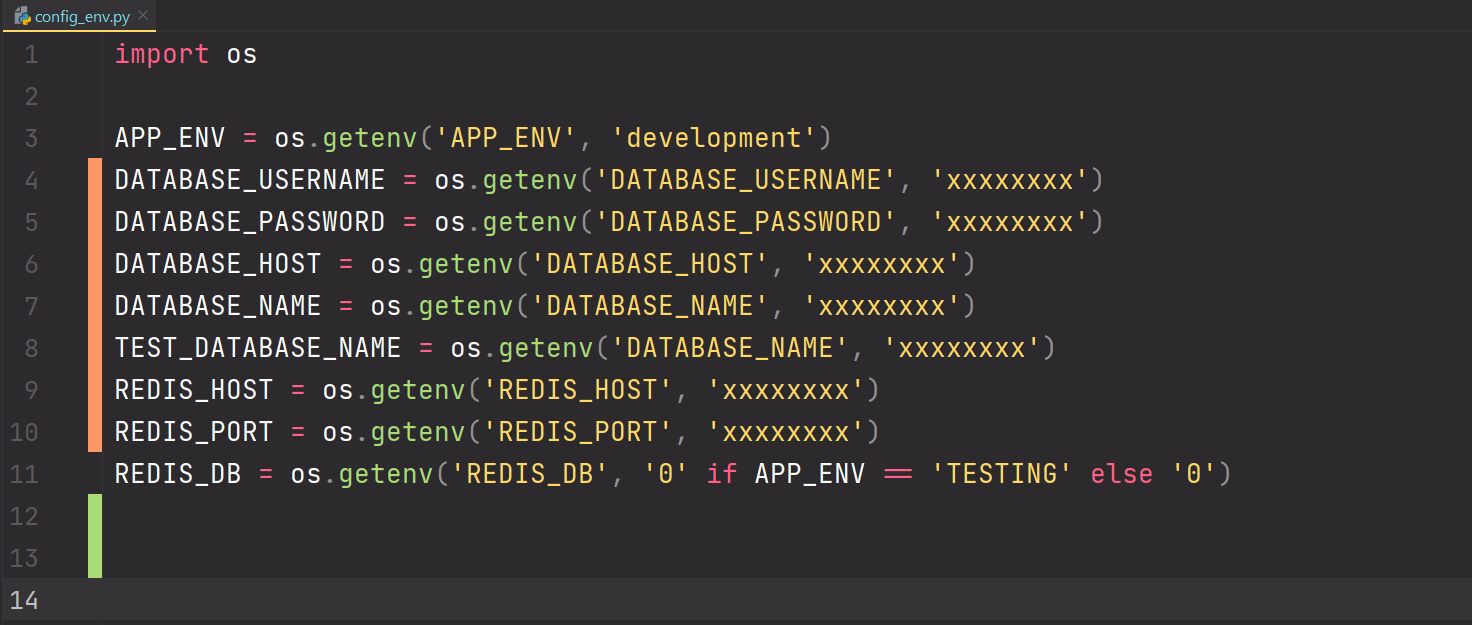
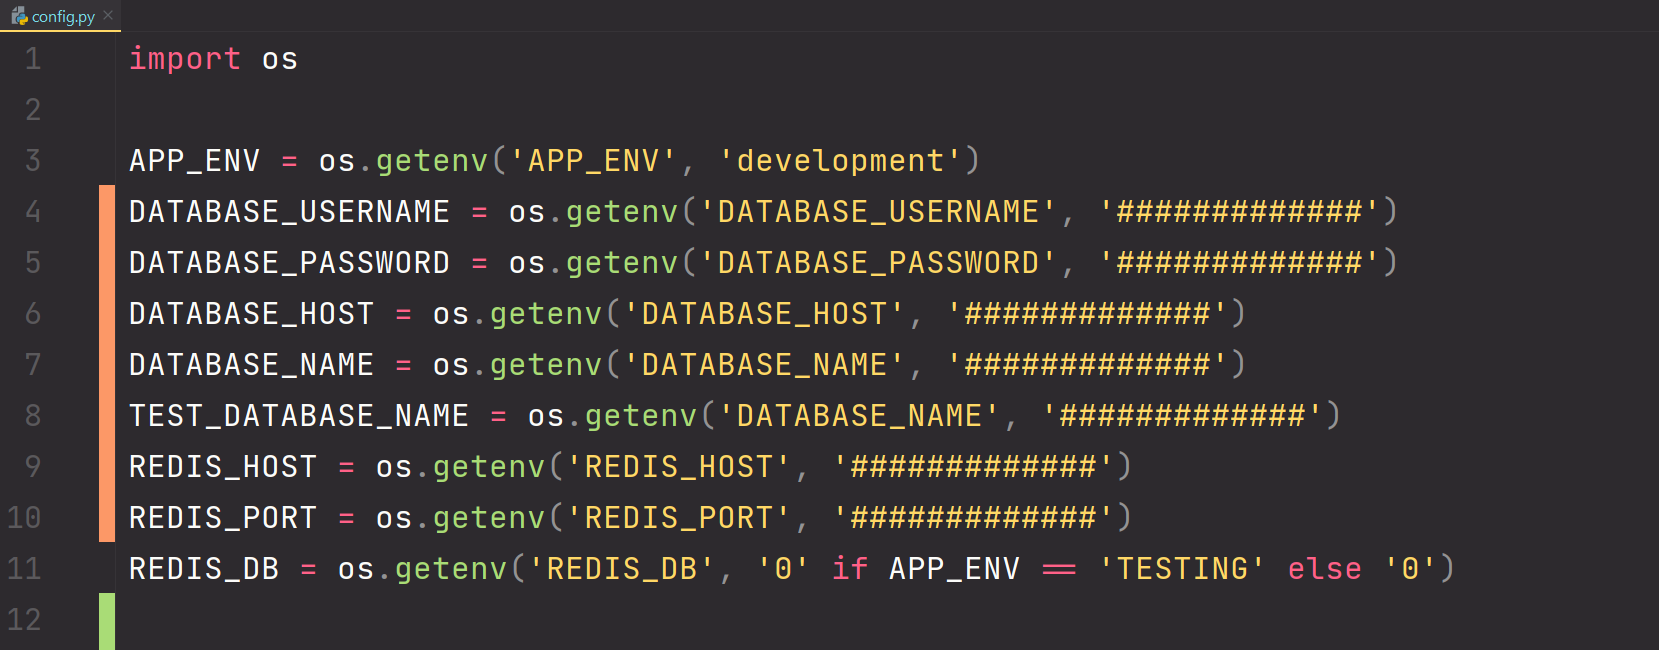
Feat: Updated README.md

diff --git a/README.md b/README.md
@@ -61,9 +61,7 @@ $ uvicorn main:app --reload
 
 ## Update Environment Variables
 
-Make sure to update the environment variables, before starting up the project.
-
-**config_env.py**
+Make sure to update the environment variables in **ecommerce/config.py**, before starting up the project.
 
 
 ![config-file](./docs/images/env_file.png)
